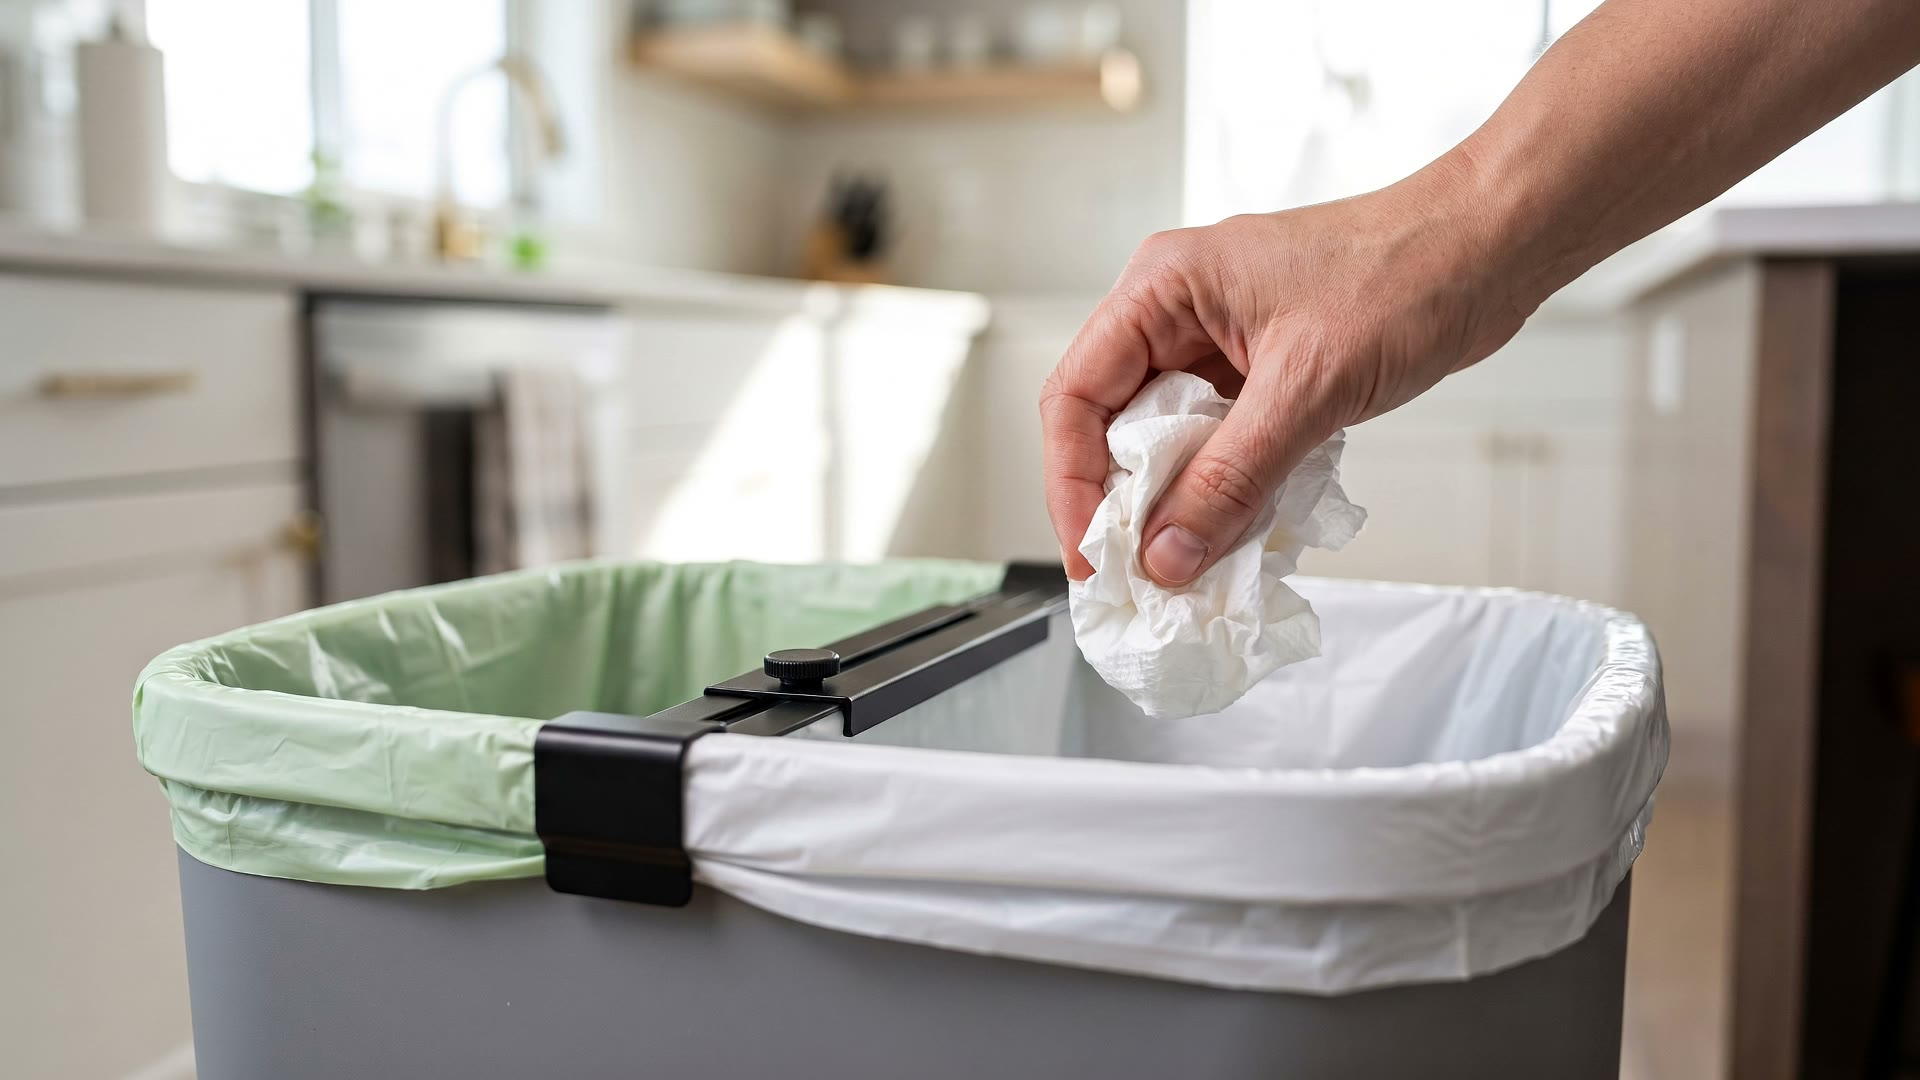
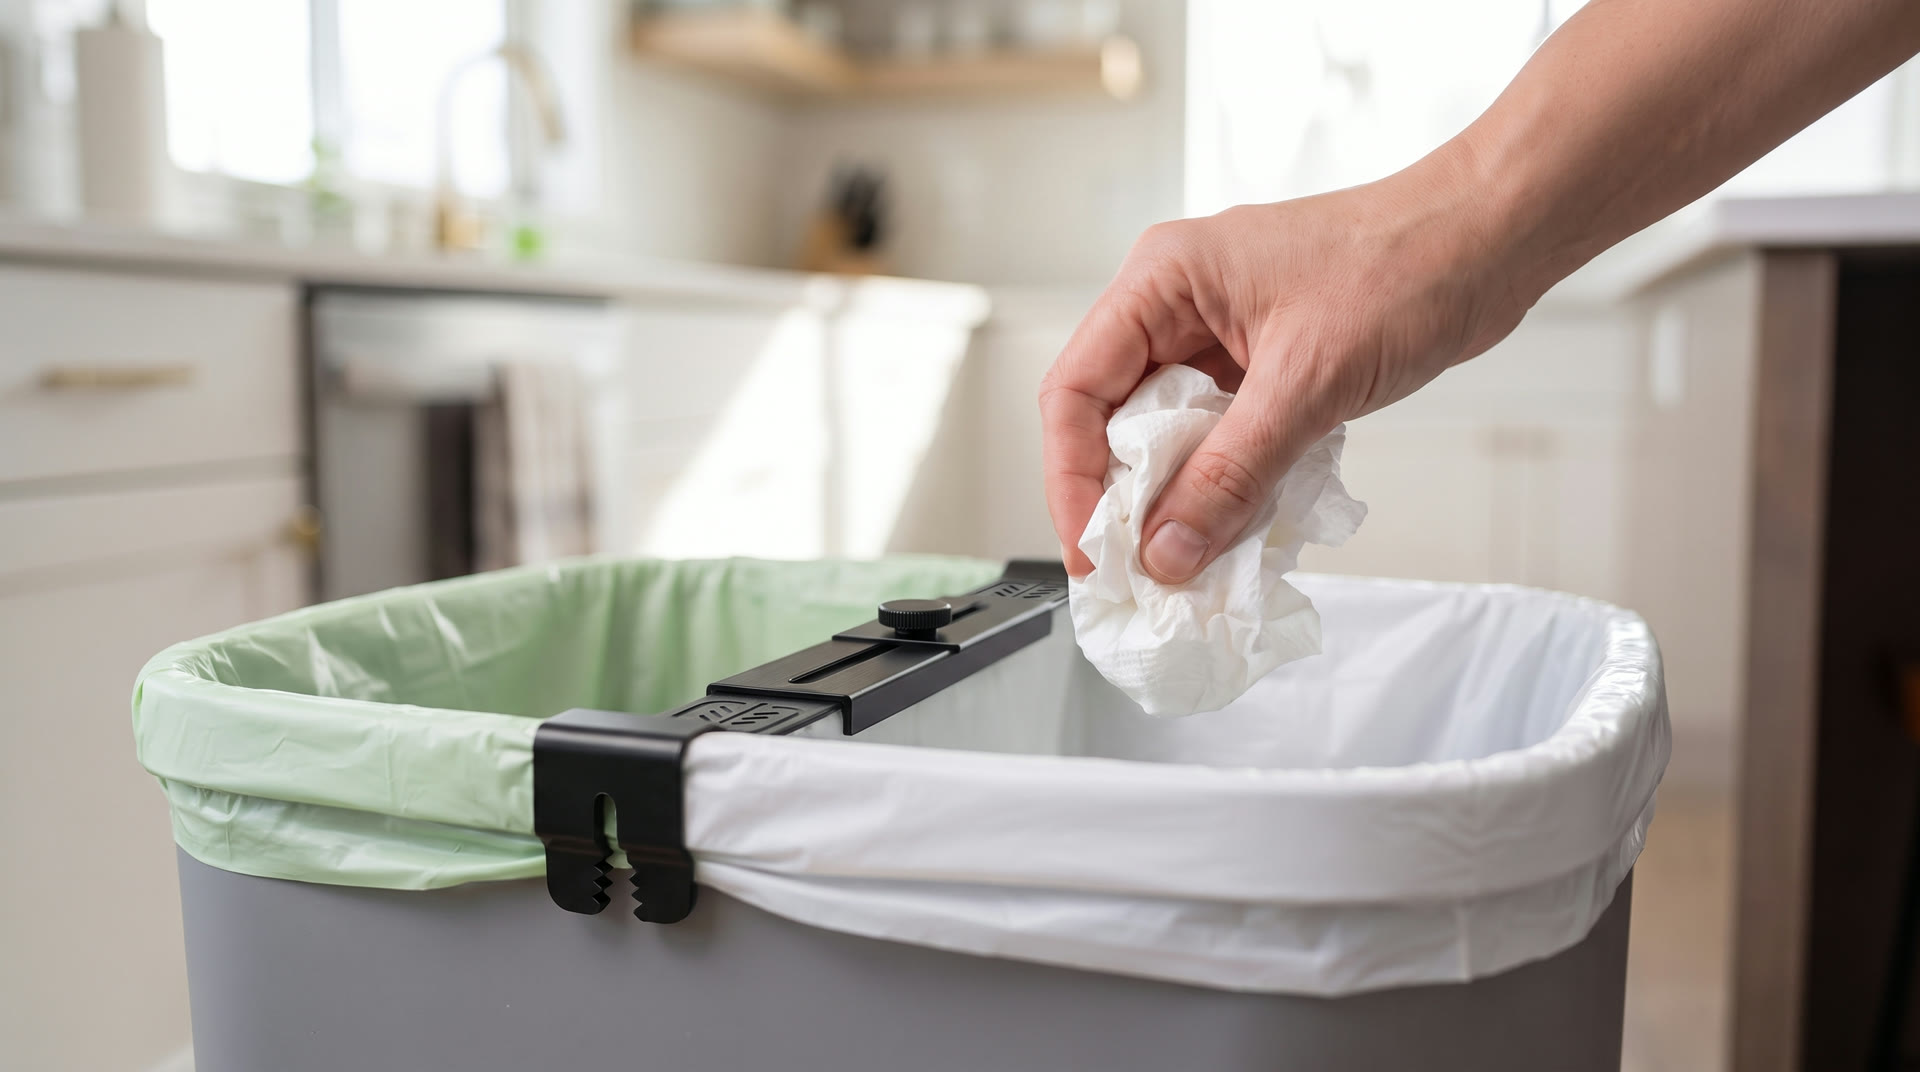
Approved media: real-footage hero montage + corrected-clasp card loops
- Hero now plays the caption-free 4K-sourced montage (bags in, Eco-Sorter over the rolled bags, secured); the captioned step-by-step cut stays in How It Works
- Use-case card loops re-rendered from stills corrected against real product photos (U-clamp over rim, serrated bag-grip teeth)

Claude-Session: https://claude.ai/code/session_011hmmmXACYbGbxp2KG7P7F3

diff --git a/index.html b/index.html
@@ -341,9 +341,9 @@
       <p class="founder-note">A mother-and-son shop. Invented, patented, and packed in the USA.</p>
     </div>
     <div class="hero-media">
-      <video autoplay muted loop playsinline preload="metadata" poster="eco-sorter-full-setup-poster.jpg" aria-label="Two bags are fitted inside one trash can before the Eco-Sorter is placed and tightened across the rim">
-        <source src="eco-sorter-full-setup.webm" type="video/webm">
-        <source src="eco-sorter-full-setup.mp4" type="video/mp4">
+      <video autoplay muted loop playsinline preload="metadata" poster="1tg-hero-poster.jpg" aria-label="Two bags are fitted inside one trash can before the Eco-Sorter is placed over the rolled bags and secured">
+        <source src="1tg-hero-loop.webm" type="video/webm">
+        <source src="1tg-hero-loop.mp4" type="video/mp4">
       </video>
       <div class="hero-badge">Test preview. One can, two bags.</div>
     </div>